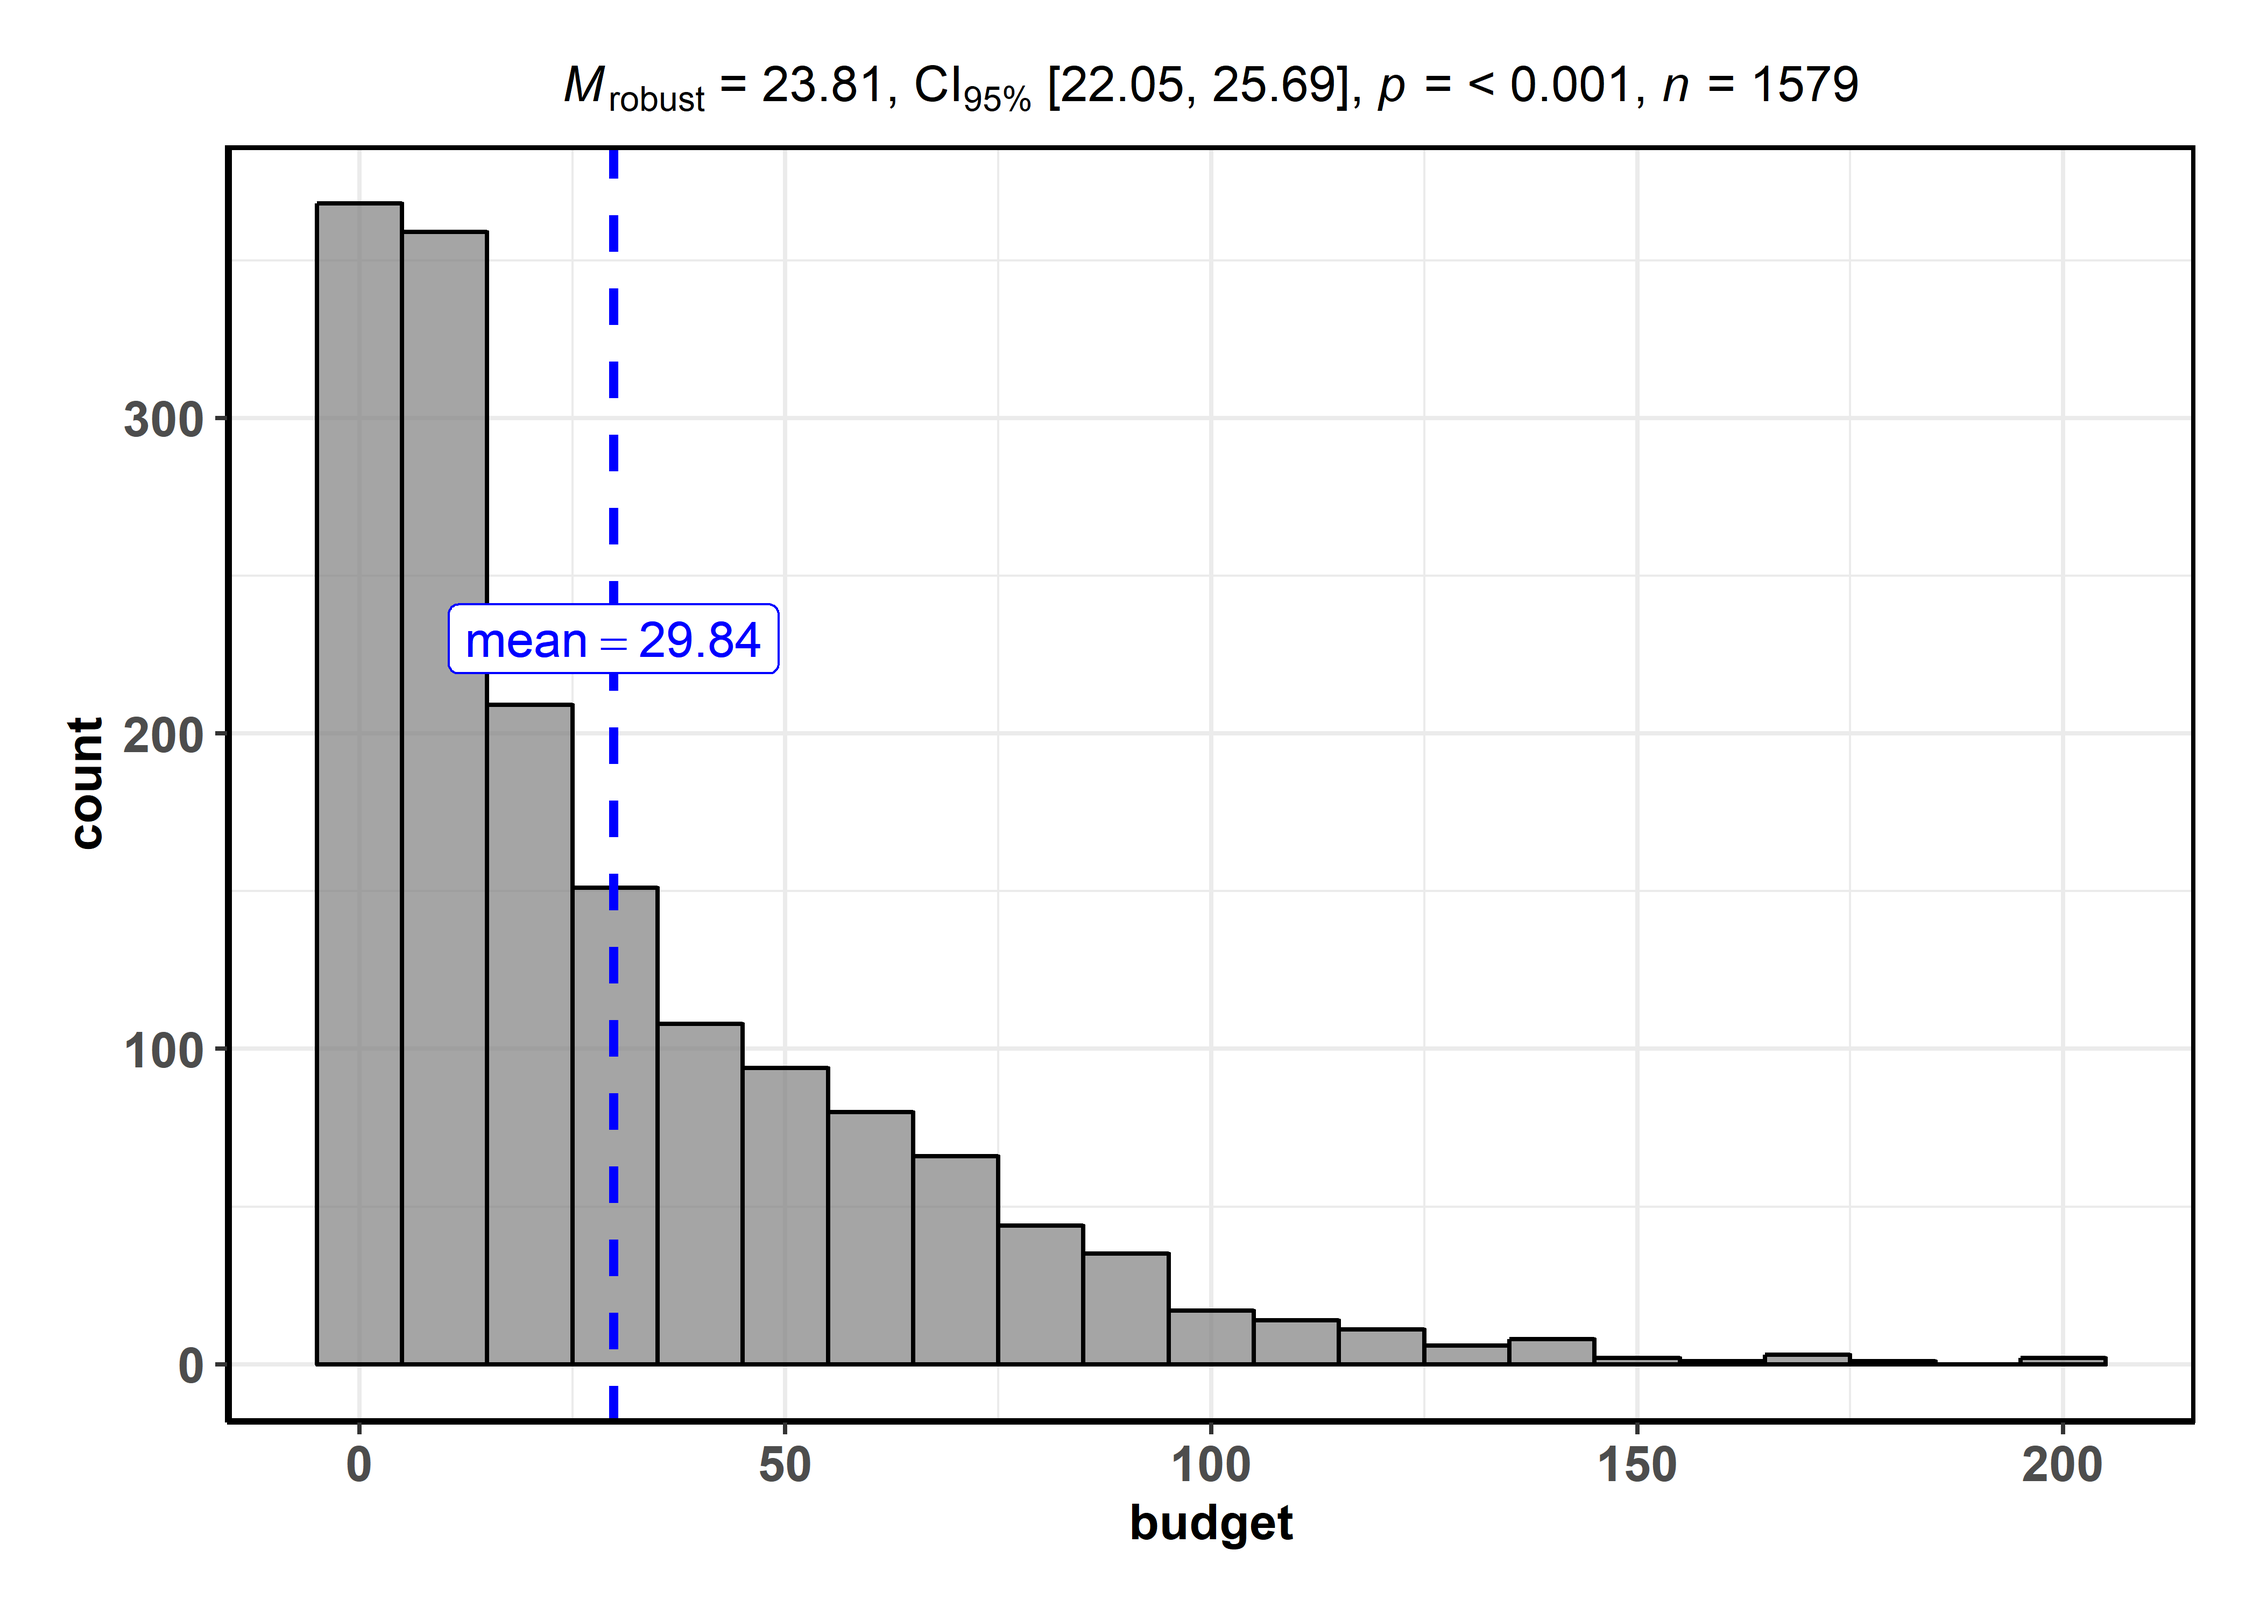
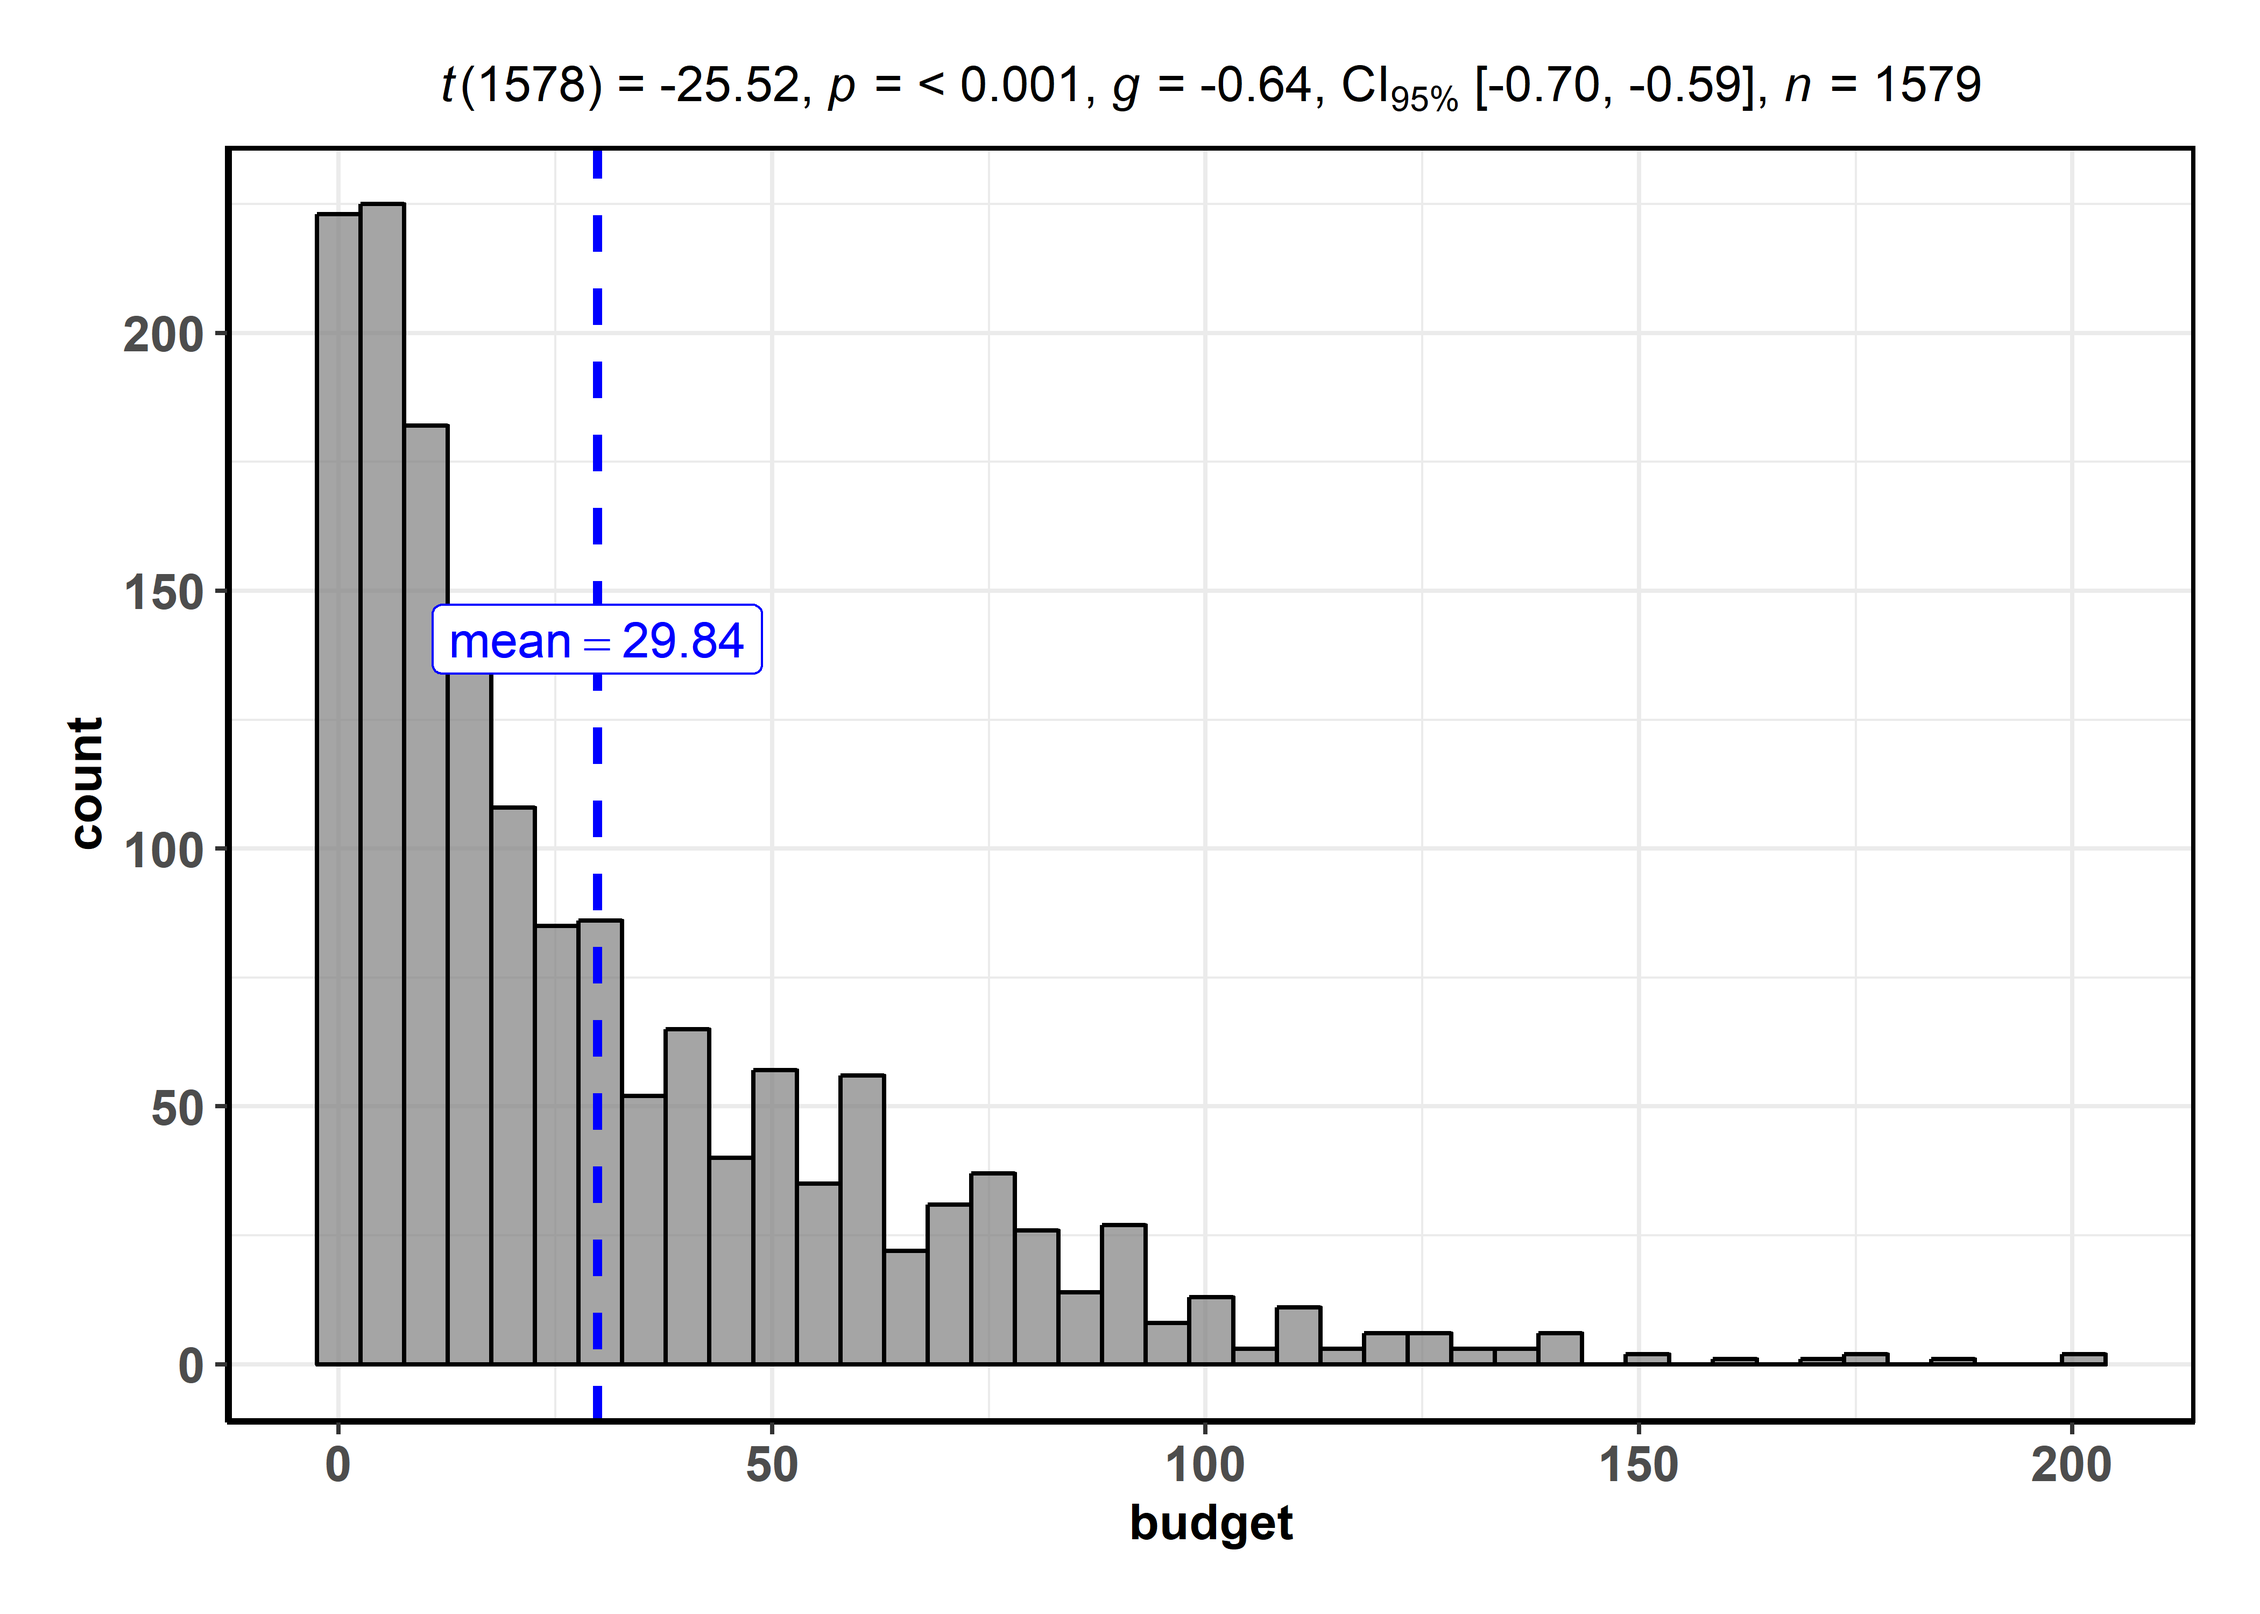
minor edits to code snippets

diff --git a/docs/slides/ggstatsplot_presentation.html b/docs/slides/ggstatsplot_presentation.html
@@ -68,7 +68,7 @@ layout: true
 
 .right-column[.font150[
 Current count of packages on the Comprehensive R Archive Network (**CRAN**)&lt;br&gt;
-**&gt; 13,000**
+**&lt;font color="red"&gt; &gt; 13,000&lt;/font&gt;**
 ]
 .footnote[&lt;https://cran.r-project.org/web/packages/&gt;]
 ]
@@ -1394,10 +1394,7 @@ layout: true
 gghistostats(
   data = movies_long,    
   x = budget,
-* type = "r",
 * test.value = 50,
-* bar.measure = "count", # default
-* binwidth = 10,
   messages = FALSE
 ) 
 ```
@@ -1433,15 +1430,15 @@ layout: true
 gghistostats(
   data = movies_long,    
   x = budget,
+  effsize.type = "d",
   test.value = 50,
-* test.value.size = TRUE,
 * bar.measure = "mix",
   centrality.para = "median", 
 * test.value.line = TRUE,
 * normal.curve = TRUE,
   bf.message = TRUE,
-* ggtheme = hrbrthemes::theme_ipsum_tw(),
-* ggstatsplot.layer = FALSE,
+  ggtheme = hrbrthemes::theme_ipsum_tw(), 
+  ggstatsplot.layer = FALSE, 
   messages = FALSE
 ) 
 ```
@@ -1475,6 +1472,7 @@ layout: true
 gghistostats(
   data = movies_long,    
   x = budget,
+  effsize.type = "d",
   test.value = 50,
   test.value.size = TRUE, 
   bar.measure = "mix", 
@@ -1526,12 +1524,12 @@ ggdotplotstats(
   data = movies_long,
   x = budget,
   y = genre,
-* effsize.type = "d",
+  effsize.type = "d", 
 * test.value = 52,
   centrality.para = "median", 
 * test.value.line = TRUE,
-* test.value.color = "red",
-* bf.message = TRUE,
+  test.value.color = "red", 
+  bf.message = TRUE, 
   ggtheme = ggthemes::theme_par(),
   messages = FALSE
 ) 
@@ -1568,6 +1566,7 @@ ggdotplotstats(
   data = movies_long,
   x = budget,
   y = genre,
+  effsize.type = "d",
   test.value = 52,     
   centrality.para = "median", 
   test.value.line = TRUE, 
@@ -2418,11 +2417,9 @@ layout: false
 --
 
 .pull-left[
-Me: **&lt;font color="blue"&gt;Parametric&lt;font&gt;**
+**&lt;font color="blue"&gt;Parametric&lt;font&gt;**
 
 ```r
-library(ggstatsplot)
-
 # result-1
 ggbetweenstats(
   data = mtcars,
@@ -2452,11 +2449,9 @@ gghistostats(
 --
 
 .pull-right[
-Reviewer-2: **&lt;font color="#ff6600"&gt;Non-parametric&lt;font&gt;** 
+**&lt;font color="#ff6600"&gt;Non-parametric&lt;font&gt;** 
 
 ```r
-library(ggstatsplot)
-
 # result-1
 ggbetweenstats(
   data = mtcars,

diff --git a/README.html b/README.html
@@ -395,6 +395,7 @@ $(document).ready(function () {
 <h2>Versions</h2>
 <p>These slides are from presentations given at various gatherings:</p>
 <ul>
+<li><strong>Methods talk</strong> (Psychology Department, New York University), NYC, NY, March, 28, 2019.</li>
 <li><strong>Greater Boston useR Group meeting</strong>, Boston, MA, March, 26, 2019.</li>
 <li><strong>Harvard Psych Method Dinners</strong>, William James Hall, Harvard University, Cambridge, MA, USA, February 5, 2019.</li>
 </ul>

diff --git a/README.md b/README.md
@@ -27,6 +27,8 @@ install.packages(c("ggstatsplot", "tidyverse"))
 
 These slides are from presentations given at various gatherings:
 
+  - **Methods talk** (Psychology Department, New York University), NYC, NY,
+    March, 28, 2019.
   - **Greater Boston useR Group meeting**, Boston, MA, March, 26, 2019.
   - **Harvard Psych Method Dinners**, William James Hall, Harvard University,
     Cambridge, MA, USA, February 5, 2019.
